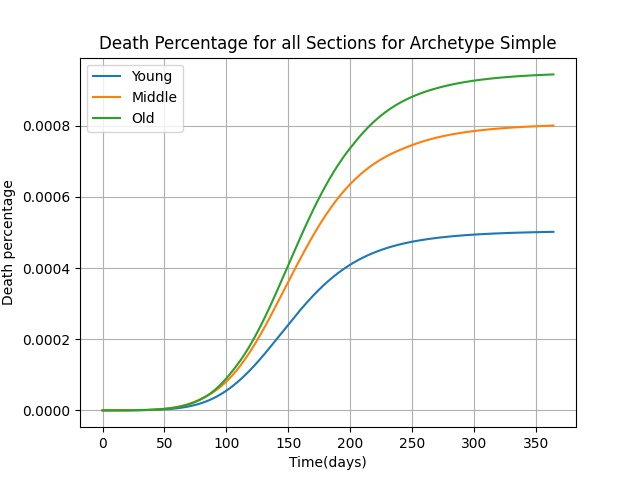
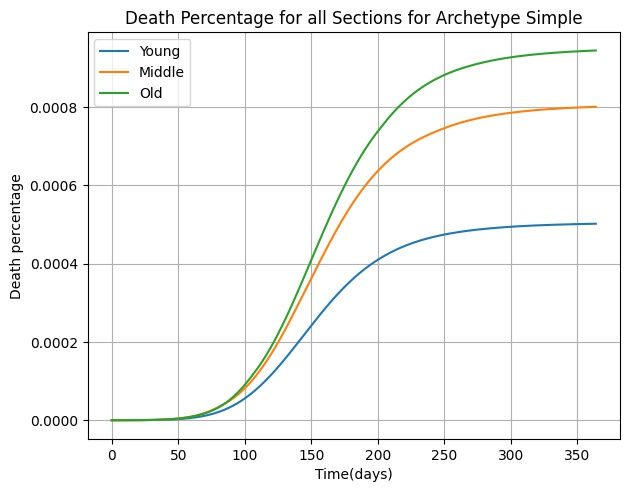
figure titles/ labels getting cutoff randomly for some reason

Changed region(s): [[0.0, 0.0, 0.9952, 1.0], [0.4825, 0.1875, 0.5127, 0.2812]]

diff --git a/games/population.py b/games/population.py
@@ -333,7 +333,7 @@ class Population:
         ax2.legend()
         fig.tight_layout()
         plt.title("Total Death Percentage for 3 archetypes")
-        plt.savefig("graphs/total_deaths.jpg")
+        plt.savefig("graphs/total_deaths.jpg", bbox_inches='tight')
 
     #        plt.show()
 
@@ -354,7 +354,7 @@ class Population:
         ax2.legend()
         fig.tight_layout()
         plt.title("Daily Death Percentage for 3 archetypes")
-        plt.savefig("graphs/fresh_deaths.jpg")
+        plt.savefig("graphs/fresh_deaths.jpg", bbox_inches='tight')
 
     def total_utility_plot(self):
         fig, ax1 = plt.subplots()
@@ -373,7 +373,7 @@ class Population:
         ax2.legend()
         fig.tight_layout()
         plt.title("Total Utility for 3 archetypes")
-        plt.savefig("graphs/total_utility.jpg")
+        plt.savefig("graphs/total_utility.jpg", bbox_inches='tight')
 
     def daily_utility_plot(self):
         fig, ax1 = plt.subplots()
@@ -392,7 +392,7 @@ class Population:
         ax2.legend()
         fig.tight_layout()
         plt.title("Daily Utility for 3 archetypes")
-        plt.savefig("graphs/daily_utility.jpg")
+        plt.savefig("graphs/daily_utility.jpg", bbox_inches='tight')
 
     def total_death_plot_sections_simple(self):
         fig, ax1 = plt.subplots()
@@ -400,13 +400,13 @@ class Population:
         # print(sections)
         for j in range(self.n_sections):
             ax1.plot(self.timeline, np.asarray(self.t_deaths_ot_s)[:, j], label=sections[j])
-
+        plt.tight_layout()
         ax1.set_xlabel("Time(days)")
         ax1.set_ylabel("Death percentage")
         plt.grid()
         ax1.legend()
         plt.title("Death Percentage for all Sections for Archetype Simple")
-        plt.savefig("graphs/total_deaths_per_section.jpg")
+        plt.savefig("graphs/total_deaths_per_section.jpg", bbox_inches='tight')
 
     #        plt.show()
     def total_death_plot_age_group_simple(self):
@@ -420,8 +420,9 @@ class Population:
         ax1.set_ylabel("Death percentage")
         plt.grid()
         ax1.legend()
+        plt.tight_layout()
         plt.title("Death Percentage for all Sections for Archetype Simple")
-        plt.savefig("graphs/total_deaths_per_age_group.jpg")
+        plt.savefig("graphs/total_deaths_per_age_group.jpg", bbox_inches='tight')
 
     def susceptible_etaw(self):
         fig, ax1 = plt.subplots()
@@ -439,15 +440,16 @@ class Population:
         plt.grid()
         ax1.legend(loc="center right")
         ax2.legend()
-        fig.tight_layout()
+        plt.tight_layout()
+        # plt.gcf().subplots_adjust(bottom=0.15)
         plt.title("Daily Working Population for Archetype Planner")
-        plt.savefig("graphs/daily_working.jpg")
+        plt.savefig("graphs/daily_working.jpg", bbox_inches='tight')
 
     def plot_graphs(self):
-        # self.total_death_plot()
-        # self.fresh_death_plot()
-        # self.total_utility_plot()
-        # self.daily_utility_plot()
-        # self.total_death_plot_sections_simple()
-        # self.total_death_plot_age_group_simple()
+        self.total_death_plot()
+        self.fresh_death_plot()
+        self.total_utility_plot()
+        self.daily_utility_plot()
+        self.total_death_plot_sections_simple()
+        self.total_death_plot_age_group_simple()
         self.susceptible_etaw()
